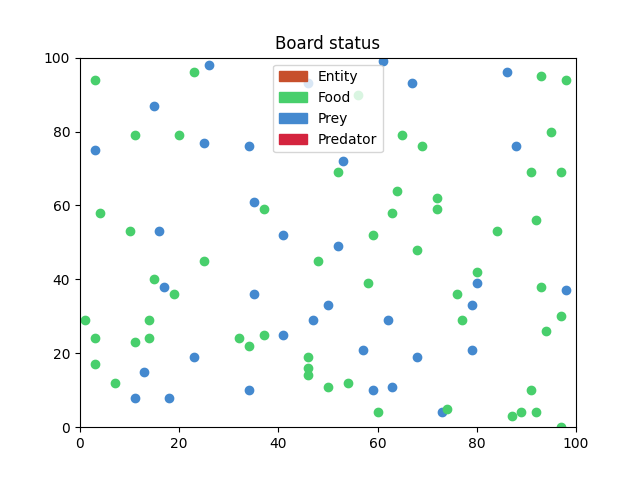
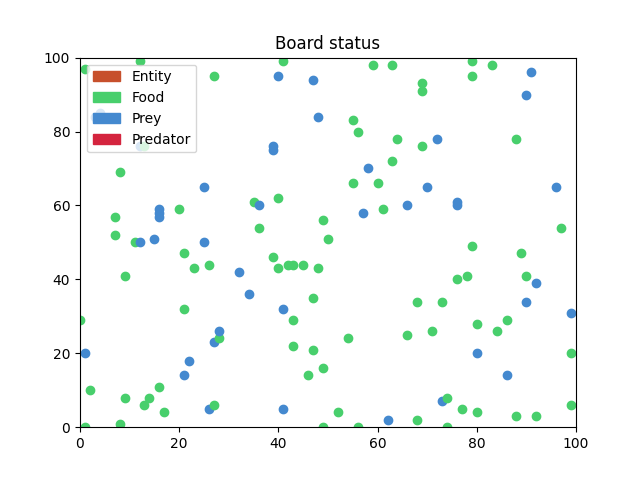
Prey can now die and breed

diff --git a/main.py b/main.py
@@ -1,9 +1,24 @@
+from pyexpat import model
 import string
+from tkinter import N
+from tkinter.messagebox import NO
 import src.models as entities
 from src.mathFuncs import *
 import random
 import time
 import json
+
+
+def spawnFood(count, setup, board) -> None:
+    for i in range(count):
+        locations = board.getEmptyPlaces()
+        loc = locations[random.randint(0, len(locations) - 1)]
+        food = entities.foodSource(f"foodSource{i}",
+            loc,
+            board,
+            round(findNormal(setup["food"]["meanEnergy"], setup["food"]["energyVariation"])))
+        board.setEntity(food, loc)
+
 
 startTime = time.time()
 print(f"Initialising sim to run")
@@ -13,22 +28,15 @@ with open("./setup.json", "r", encoding="utf-8") as setupFile:
 
 board = entities.board(setup["board"]["boardSizeX"], setup["board"]["boardSizeY"])
 
-preyList = []
-foodList = []
-for i in range(setup["food"]["foodCount"]):
-    locations = board.getEmptyPlaces()
-    loc = locations[random.randint(0, len(locations) - 1)]
-    food = entities.foodSource(f"foodSource{i}",
-        loc,
-        board,
-        round(findNormal(setup["food"]["meanEnergy"], setup["food"]["energyVariation"])))
-    board.setEntity(food, loc)
-    foodList.append(food)
 
+spawnFood(setup["food"]["foodCount"], setup, board)
+
+preyList = []
 for i in range(setup["prey"]["preyCount"]):
     locations = board.getEmptyPlaces()
     loc = locations[random.randint(0, len(locations) - 1)]
-    prey = entities.prey(f"prey{i+1}", 
+    prey = entities.prey(
+        f"prey{i+1}", 
         loc,
         board,
         round(findNormal(setup["prey"]["meanSpeed"], setup["prey"]["speedVariation"]), 4),
@@ -40,7 +48,7 @@ for i in range(setup["prey"]["preyCount"]):
 
 turnIcons = ["|", "/", "-", "\\"]
 # Output data to be saved as .csv 
-outputData = np.empty([setup["sim"]["length"] + 1, 3]) 
+outputData = np.empty([setup["sim"]["length"] + 1, 4]) 
 # outputData[0] = ["Turn Number", "Number of prey", "Average prey energy"]
 
 for turnNumber in range(setup["sim"]["length"]):
@@ -51,20 +59,53 @@ for turnNumber in range(setup["sim"]["length"]):
             if prey.goalList == []:
                 prey.findNearestFoodSource()
             prey.executeGoal()
-    
+
+    foodCount = 0
+    for row in range(board.getShape()[0]):
+        for column in range(board.getShape()[1]):
+            if type(board.getEntity([row, column])) == entities.foodSource:
+                foodCount += 1
+
+    if foodCount < setup["food"]["foodCount"] * setup["food"]["spawnThreshold"]:
+        spawnFood(round(setup["food"]["foodCount"] * (1 - setup["food"]["spawnThreshold"])), setup, board)
+
     trackVal = 0
     for prey in preyList:
         trackVal += prey.energy
 
+    breedCount = 0
+    if (turnNumber + 1) % setup["sim"]["breedTurns"] == 0: # Breed the prey every n turns
+        print("\nSTARTING BREEDING")
+        currentPreyList = preyList.copy()
+        for preyIndex, prey in enumerate(currentPreyList):
+            if prey.energy >= 0.5: # If the animal has over 0.5 energy
+                breedCount += 1
+                positions = board.getEmptyPlaces()
+                pos = positions[random.randint(0, len(positions) - 1)]
+                speed = round(findNormal(prey.speed, setup["prey"]["speedVariation"]), 4)
+                if speed < 1:
+                    speed = 1
+                newPrey = entities.prey(
+                    f"prey{setup['prey']['preyCount'] + preyIndex}",
+                    pos,
+                    board,
+                    speed,
+                    round(findNormal(prey.sensingRange, setup["prey"]["sensingRangeVariation"]), 4)
+                )    
+                preyList.append(newPrey)
+                board.setEntity(newPrey, pos)
+
+    
     board.plotBoard(False, f"./output/{turnNumber}.png")
     outputData[turnNumber][0] = turnNumber
     outputData[turnNumber][1] = len(preyList)
-    outputData[turnNumber][2] = trackVal / len(preyList)
+    outputData[turnNumber][3] = breedCount
     if len(preyList) == 0:
-        outputData[1] = 0
+        outputData[turnNumber][2] = 0
         break
+    else:
+        outputData[turnNumber][2] = trackVal / len(preyList)
 
-    print(f"\r{turnIcons[turnNumber % len(turnIcons)]} Loading {round((turnNumber + 1) / setup['sim']['length'], 3) * 100}%", end="") # Print loading info
+    print(f"\r{turnIcons[turnNumber % len(turnIcons)]} Loading {round((turnNumber + 1) / setup['sim']['length'], 3) * 100}% - Population - {len(preyList)}", end="") # Print loading info
 np.savetxt("./output/dataOut.csv", outputData, delimiter=",")
-print(outputData)
 print(f"\nDone! generated {turnNumber + 1} days in {round((time.time() - startTime), 3)} seconds")

diff --git a/src/models.py b/src/models.py
@@ -29,7 +29,7 @@ class animal(entity):
         self.speed = speed
         self.sensingRange = sensingRange
 
-        self.movementCost = round((math.log(self.speed + 1) / 15), 3) # How much energy it costs to move 1 square
+        self.movementCost = round((math.log(self.speed + 1) / 20), 3) # How much energy it costs to move 1 square
         self.goalList = []
 
     def updateVitals(self):
@@ -156,19 +156,19 @@ class board:
         return self.board[searchPosition[0]][searchPosition[1]]
     
     def getShape(self) -> list:
-        return list(self.board.shape)
+        return list([self.board.shape[0] - 1, self.board.shape[1] - 1])
     # Setters
     def setEntity(self, entity, location) -> None:
         # Set an entity to a specific location on the board
         if self.board[location[0]][location[1]] != None:
-            raise Exception(f"SET ENTITY ERROR\nThere is already an entity at location {location}\nThis occured when you were setting entity {entity.id}")
+            raise Exception(f"\nSET ENTITY ERROR\nThere is already an entity at location {location}\nThis occured when you were setting entity {entity.id}")
         else:
             self.board[location[0]][location[1]] = entity
 
     def removeEntityFromLocation(self, location) -> None:
         # Remove an entity from a location on the board
         if self.board[location[0]][location[1]] == None:
-            print(f"REMOVE ENTITY ERROR\nAttempting to delete entity at location {location}. Nothing is at that location")
+            print(f"\nREMOVE ENTITY ERROR\nAttempting to delete entity at location {location}. Nothing is at that location")
         else:
             self.board[location[0]][location[1]] = None
 
@@ -176,7 +176,7 @@ class board:
     def moveEntity(self, entity, oldLocation, newLocation) -> None:
         # Move a board from location to another
         if self.board[oldLocation[0]][oldLocation[1]] == None:
-            print(f"MOVE ENTITY ERROR\nThere is no entity at old location {oldLocation}\n This occured whilst trying to move entity {entity.id}")
+            print(f"\nMOVE ENTITY ERROR\nThere is no entity at old location {oldLocation}\n This occured whilst trying to move entity {entity.id}")
         else:
             self.removeEntityFromLocation(oldLocation)
             self.setEntity(entity, newLocation)

diff --git a/test.py b/test.py
@@ -1,6 +1,8 @@
-import matplotlib.pyplot as plt
-for point in [6, 76], [6, 75], [6, 74], [5, 76], [5, 75], [4, 76], [6, 76], [6, 77], [6, 78], [5, 76], [5, 77], [4, 76], [6, 76], [6, 75], [6, 74], [7, 76], [7, 75], [8, 76], [6, 76], [6, 77], [6, 78], [7, 76], [7, 77], [8, 76]:
-    plt.scatter(point[0], point[1])
-plt.xlim((0, 100))
-plt.ylim((0, 100))
-plt.show()
+x = [1, 2, 3, 4]
+y = []
+for item in x:
+    y.append(item)
+for i in y:
+    x.append(i)
+    print(i)
+print(x)

diff --git a/README.md b/README.md
@@ -7,6 +7,7 @@ Note - The frequency distribution between the mean and the variation is given by
 
 ## Sim
 - `length` - The number of 'turns' the sim has
+- `breedTurns` - After how many turns the animals breed 
 
 ## Board
 - `boardSizeX` - The width of the board the animals inhabit
@@ -16,6 +17,7 @@ Note - The frequency distribution between the mean and the variation is given by
 - `foodCount` - The number of food sources that spawn
 - `meanEnergy` - The mean amount of energy provided by a food sources
 - `energyVariation` - The variation of amount of energy provided
+- `spawnThreshold` - The number multiplied by the total population to get when the food sources need replenishing
 
 ## Prey
 Both health and energy are values between 0 and 1, with 1 being full and 0 being empty (duh)
@@ -32,3 +34,8 @@ Both health and energy are values between 0 and 1, with 1 being full and 0 being
 ## Prey
 - Efficiency = log(speed + 1) / 15
 - Energy Cost from movement = distance * (3 - Efficiency)
+
+# Outputted .csv file format
+| Column Letter | Column A | Coulumn B| Column C | Column D |
+|---|---|---|---|---| 
+| Description | Turn Number | Total Prey Population | Average Energy | Number of new prey born THAT turn
